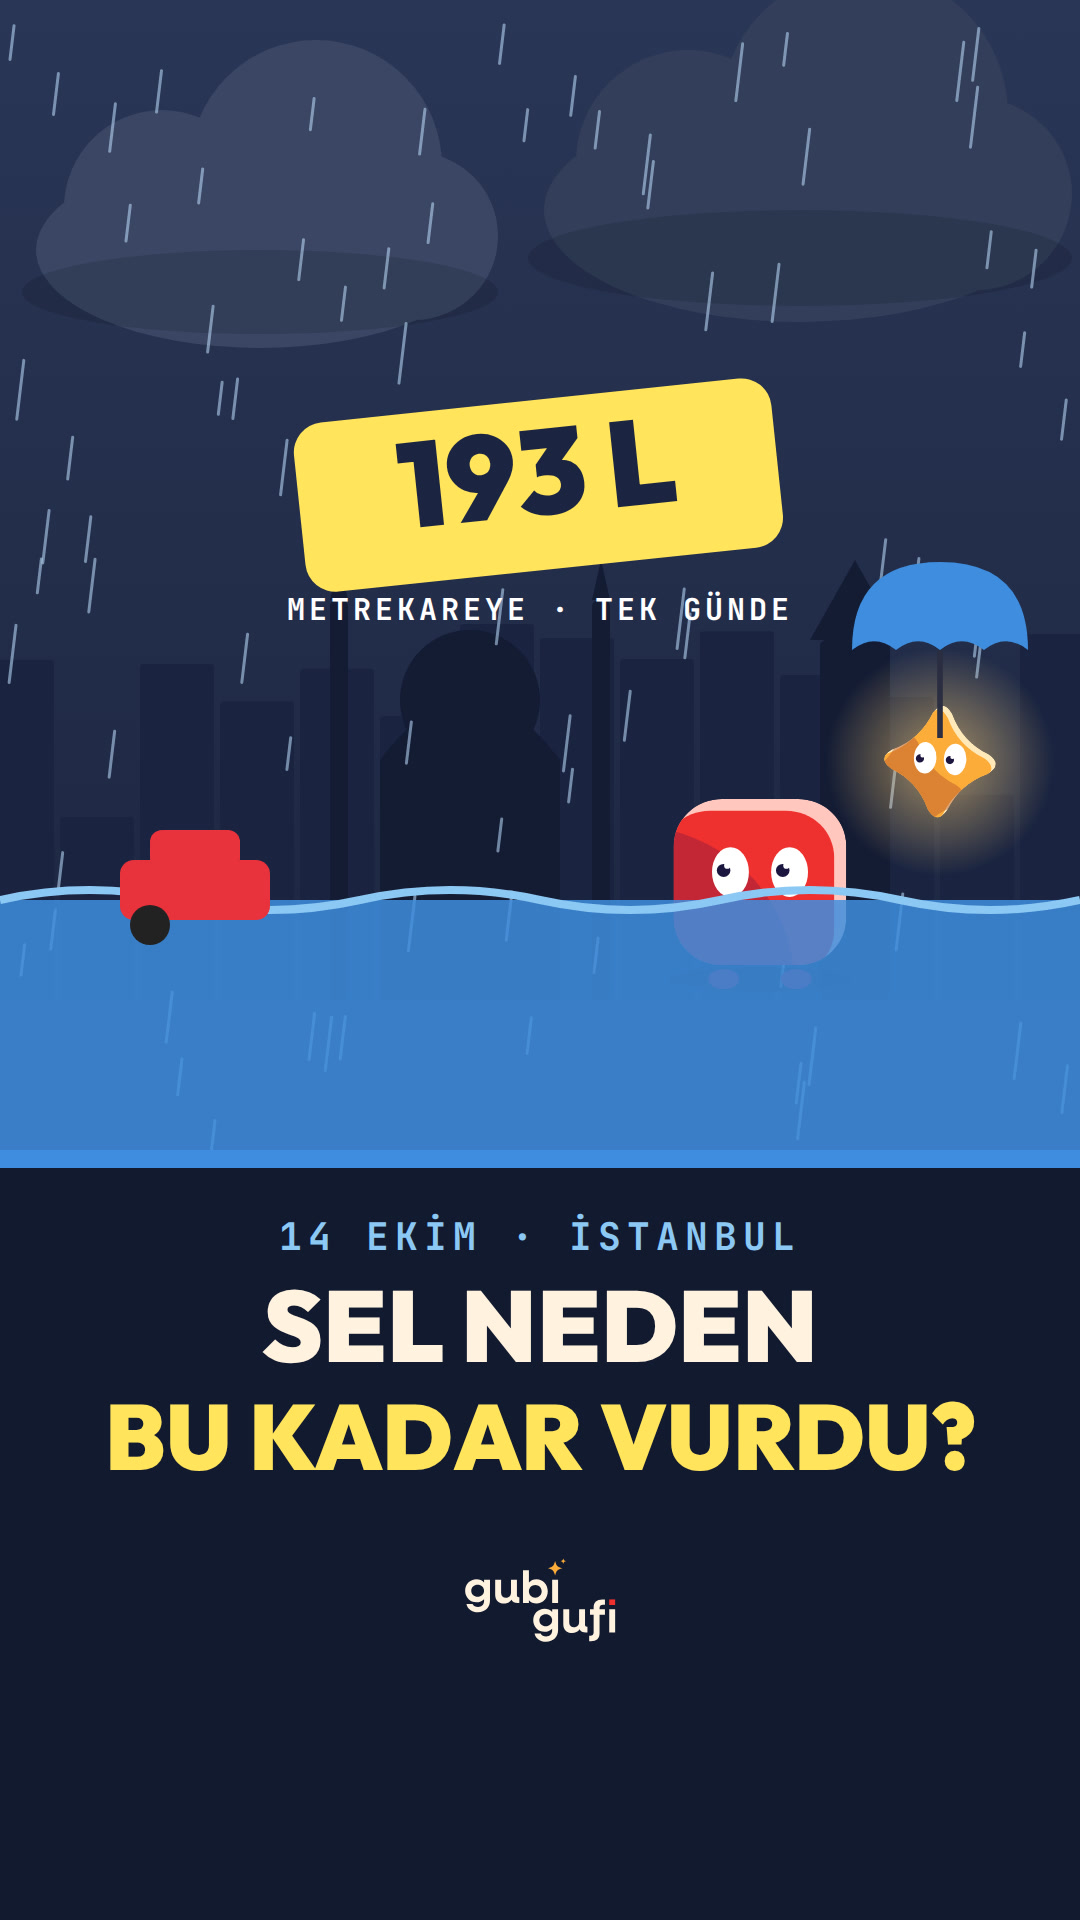
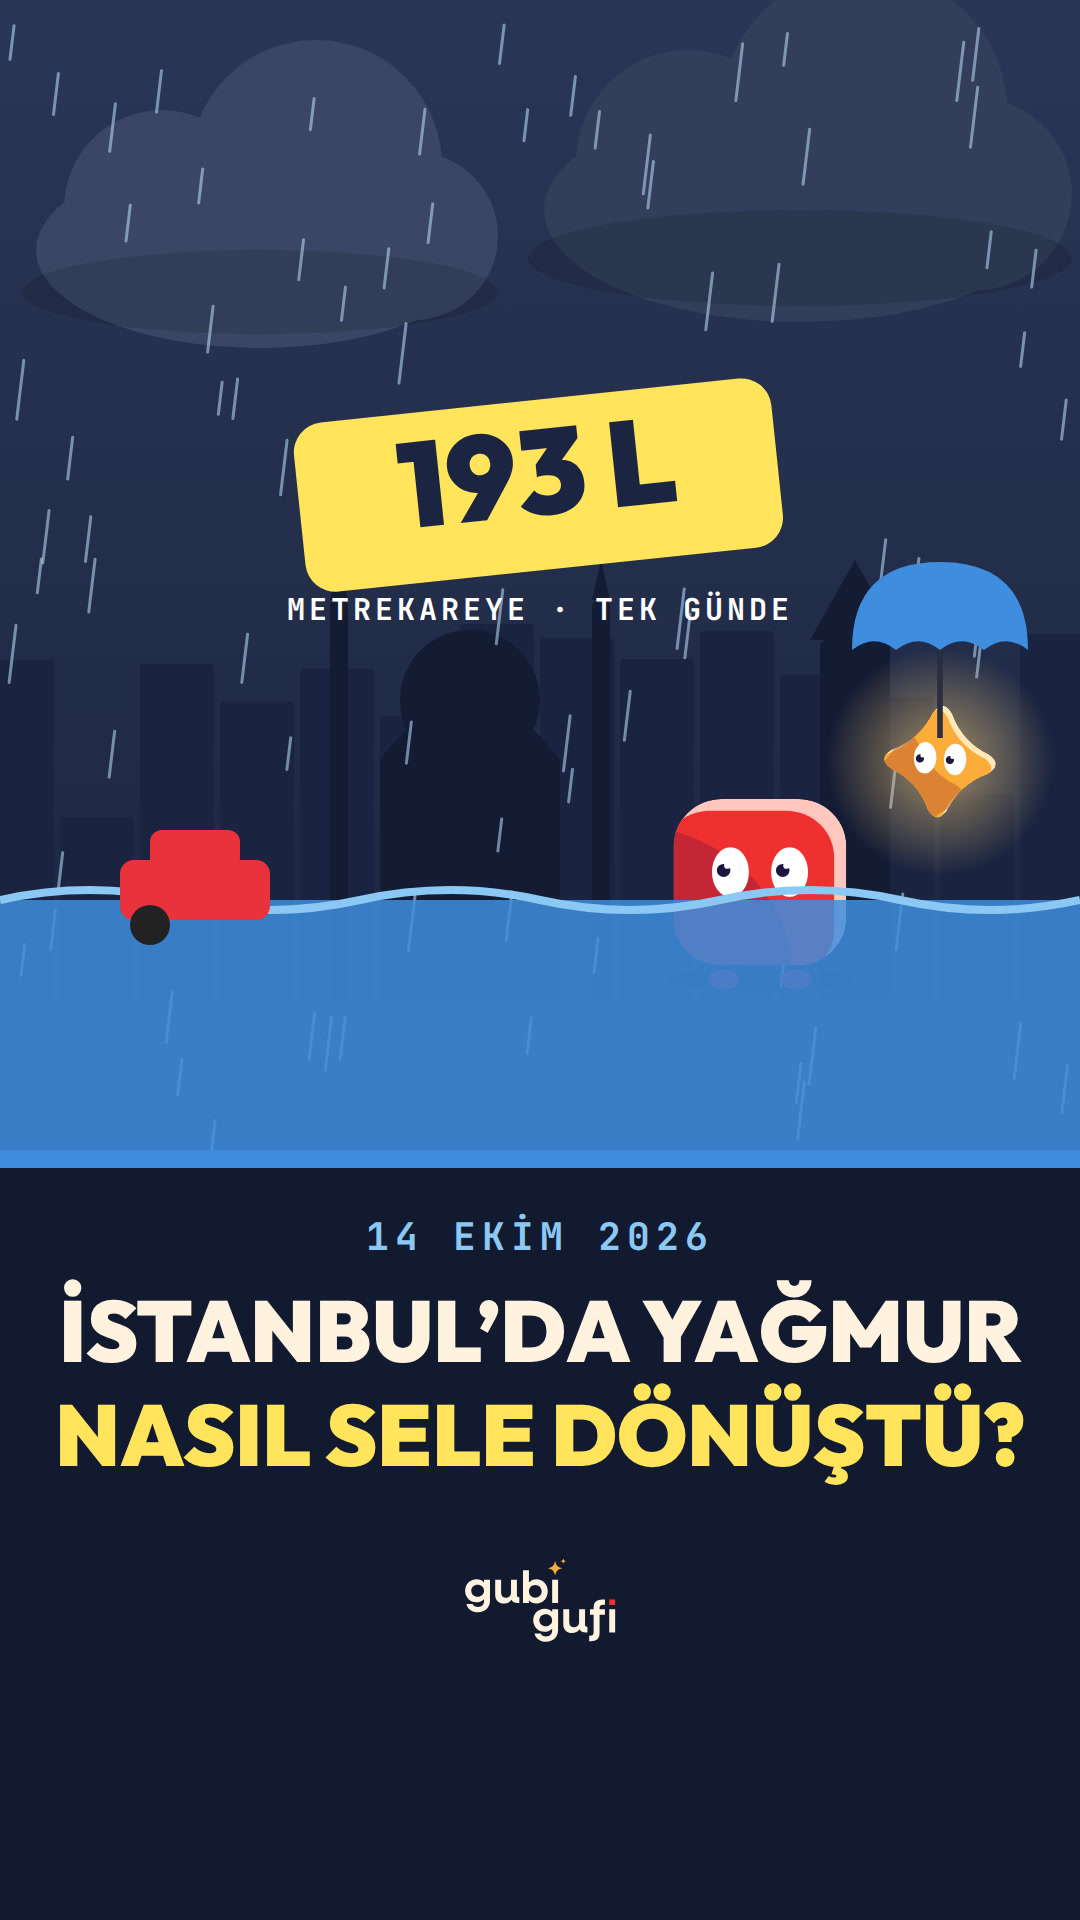
#34 kapak başlığı: İstanbul'da yağmur nasıl sele dönüştü?
Claude-Session: https://claude.ai/code/session_01XpFWe2qV8RD24ed2Fkasje

Changed region(s): [[0.0306, 0.625, 0.9472, 0.7812]]

diff --git a/gubigufi/2026-10-14/34-istanbul-sel/kaynak/sahneler/kapak.html b/gubigufi/2026-10-14/34-istanbul-sel/kaynak/sahneler/kapak.html
@@ -22,8 +22,8 @@ window.renderAt = t => {
   o += `<g transform="translate(940 650) scale(.8)"><path d="M-110 0 Q-110 -110 0 -110 Q110 -110 110 0 Q82 -22 55 0 Q27 -22 0 0 Q-27 -22 -55 0 Q-82 -22 -110 0Z" fill="#3E8EDE"/><path d="M0 0 V110" stroke="#2A2E40" stroke-width="7"/></g>`;
   o += `<g transform="rotate(-6 540 500)"><rect x="300" y="400" width="480" height="170" rx="30" fill="#FFE45C"/>` + txt('193 L', 540, 515, 120, '#1B2440') + `</g>` + `<text class="mono" x="540" y="620" font-size="30" text-anchor="middle" letter-spacing="4" style="fill:#FFFFFF">METREKAREYE · TEK GÜNDE</text>`;
   o += `<rect x="0" y="1150" width="1080" height="770" fill="#121A30"/><rect x="0" y="1150" width="1080" height="18" fill="#3E8EDE"/>`;
-  o += `<text class="mono" x="540" y="1250" font-size="38" text-anchor="middle" letter-spacing="6" style="fill:#8CC8F4">14 EKİM · İSTANBUL</text>`;
-  o += txt('SEL NEDEN', 540, 1362, 100) + txt('BU KADAR VURDU?', 540, 1470, 92, '#FFE45C');
+  o += `<text class="mono" x="540" y="1250" font-size="38" text-anchor="middle" letter-spacing="6" style="fill:#8CC8F4">14 EKİM 2026</text>`;
+  o += txt('İSTANBUL’DA YAĞMUR', 540, 1362, 86) + txt('NASIL SELE DÖNÜŞTÜ?', 540, 1466, 86, '#FFE45C');
   const S = 150 / 233; let l = `<g transform="translate(540 1600) scale(${S}) translate(-141.5 -141.5)">`;
   for (const p of window.LOGO_PATHS) l += `<path transform="${p.t}" d="${p.d}" fill="${p.fill === '#231f20' ? '#FFF3E0' : p.fill}"/>`;
   document.getElementById('dinamik').innerHTML = o + l + '</g>';
